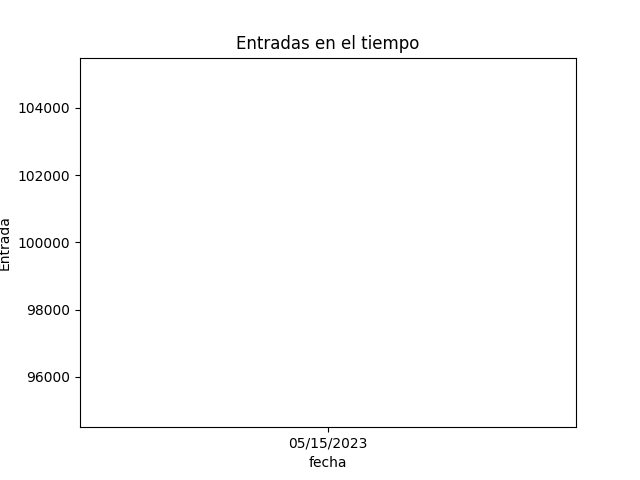
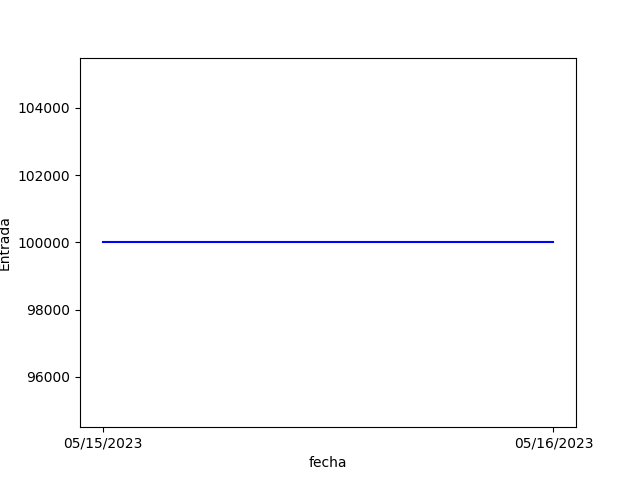
cambios en la visualuzación de los gráficos. Puestos dentro de tarjetas.

diff --git a/SMARTCASHPROJECT/wallet/templates/registration/statistics.html b/SMARTCASHPROJECT/wallet/templates/registration/statistics.html
@@ -13,20 +13,44 @@
     <link rel="stylesheet" type="text/css" href="{% static 'css/style.css' %}"/>
 
 </head>
-<body>  
-    {% block content %}
+<body>
+{% block content %}
+<br>
+<br>
+<br>
 <div class="container">
-    <br><br><br>
-    <img src="{% static 'images/line_chart_entrada.png' %}">
     <br>
+    <div class="row row-cols-1 row-cols-md-2 g-4">
+        <br>
+        <div class="col">
+            <div class="card">
+                <img src="{% static 'images/line_chart_entrada.png' %}" class="card-img-top">
+                <h5 class="card-title">Entradas de dinero en el tiempo.</h5>
+            </div>
+        </div>
+        <br>
+        <div class="card">
+            <img src="{% static 'images/line_chart_salida.png' %}" class="card-img-top">
+            <h5 class="card-title">Salidas de dinero en el tiempo.</h5>
+        </div>
+    </div>
+
     <br>
-    <img src="{% static 'images/line_chart_salida.png' %}">
-    <br>
-    <br>
-    <img src="{% static 'images/pie_chart_entrada.png' %}">
-    <br>
-    <br>
-    <img src="{% static 'images/pie_chart_salida.png' %}">
+
+    <div class="row row-cols-1 row-cols-md-2 g-4">
+        <br>
+        <div class="col">
+            <div class="card">
+                <img src="{% static 'images/pie_chart_entrada.png' %}" class="card-img-top">
+                <h5 class="card-title">Entradas de dinero por categorías.</h5>
+            </div>
+        </div>
+        <br>
+        <div class="card">
+            <img src="{% static 'images/pie_chart_salida.png' %}" class="card-img-top">
+            <h5 class="card-title">Salidas de dinero por categorías.</h5>
+        </div>
+    </div>
 </div>
 {% endblock content %}
 </body>

diff --git a/SMARTCASHPROJECT/wallet/charts.py b/SMARTCASHPROJECT/wallet/charts.py
@@ -11,13 +11,12 @@ def pie_chart_movements(movements):
     categories = {}
     for movement in movements:
         if movement.categoria in categories:
-            categories[movement.categoria] += movement.valor
+            categories[movement.categoria.nombre] += movement.valor
         else:
-            categories[movement.categoria] = movement.valor
+            categories[movement.categoria.nombre] = movement.valor
     values, labels = categories.values(), categories.keys()
     plt.figure()
     plt.pie(values, labels=labels)
-    plt.title('Gastos en categorías')
     plt.savefig('static/images/pie_chart.png')
 
 
@@ -25,13 +24,12 @@ def pie_chart_movements_direction(movements, direction):
     categories = {}
     for movement in movements:
         if movement.categoria in categories:
-            categories[movement.categoria] += movement.valor
+            categories[movement.categoria.nombre] += movement.valor
         else:
-            categories[movement.categoria] = movement.valor
+            categories[movement.categoria.nombre] = movement.valor
     values, labels = categories.values(), categories.keys()
     plt.figure()
     plt.pie(values, labels=labels, autopct='%1.0f%%')
-    plt.title(f'{direction.capitalize()}s en categorías')
     plt.savefig(f'static/images/pie_chart_{direction}.png')
 
 
@@ -45,7 +43,6 @@ def line_chart_date(movements):
     figure = plt.figure()
     values, labels = dates.values(), [x.strftime("%m/%d/%Y") for x in dates.keys()]
     plt.plot(labels, values, figure=figure)
-    plt.title('Gastos en el tiempo')
     plt.xlabel('Fecha', figure=figure)
     plt.ylabel('Dinero gastado', figure=figure)
     plt.savefig('static/images/line_chart.png')
@@ -61,7 +58,6 @@ def line_chart_date_direction(movements, direction):
     figure = plt.figure()
     values, labels = dates.values(), [x.strftime("%m/%d/%Y") for x in dates.keys()]
     plt.plot(labels, values, figure=figure, color='blue' if direction == 'entrada' else 'red')
-    plt.title(f'{direction.capitalize()}s en el tiempo')
     plt.xlabel('fecha', figure=figure)
     plt.ylabel(f'{direction.capitalize()}', figure=figure)
     plt.savefig(f'static/images/line_chart_{direction}.png')

diff --git a/SMARTCASHPROJECT/wallet/connection.py b/SMARTCASHPROJECT/wallet/connection.py
@@ -17,7 +17,6 @@ def create_default_categories(user):
 
 def search_category_by_name(category, user):
     ans = Categoria.objects.all().filter(usuario=user, nombre=category.lower())
-    print(ans)
     return ans[0] if ans else ans
 
 
